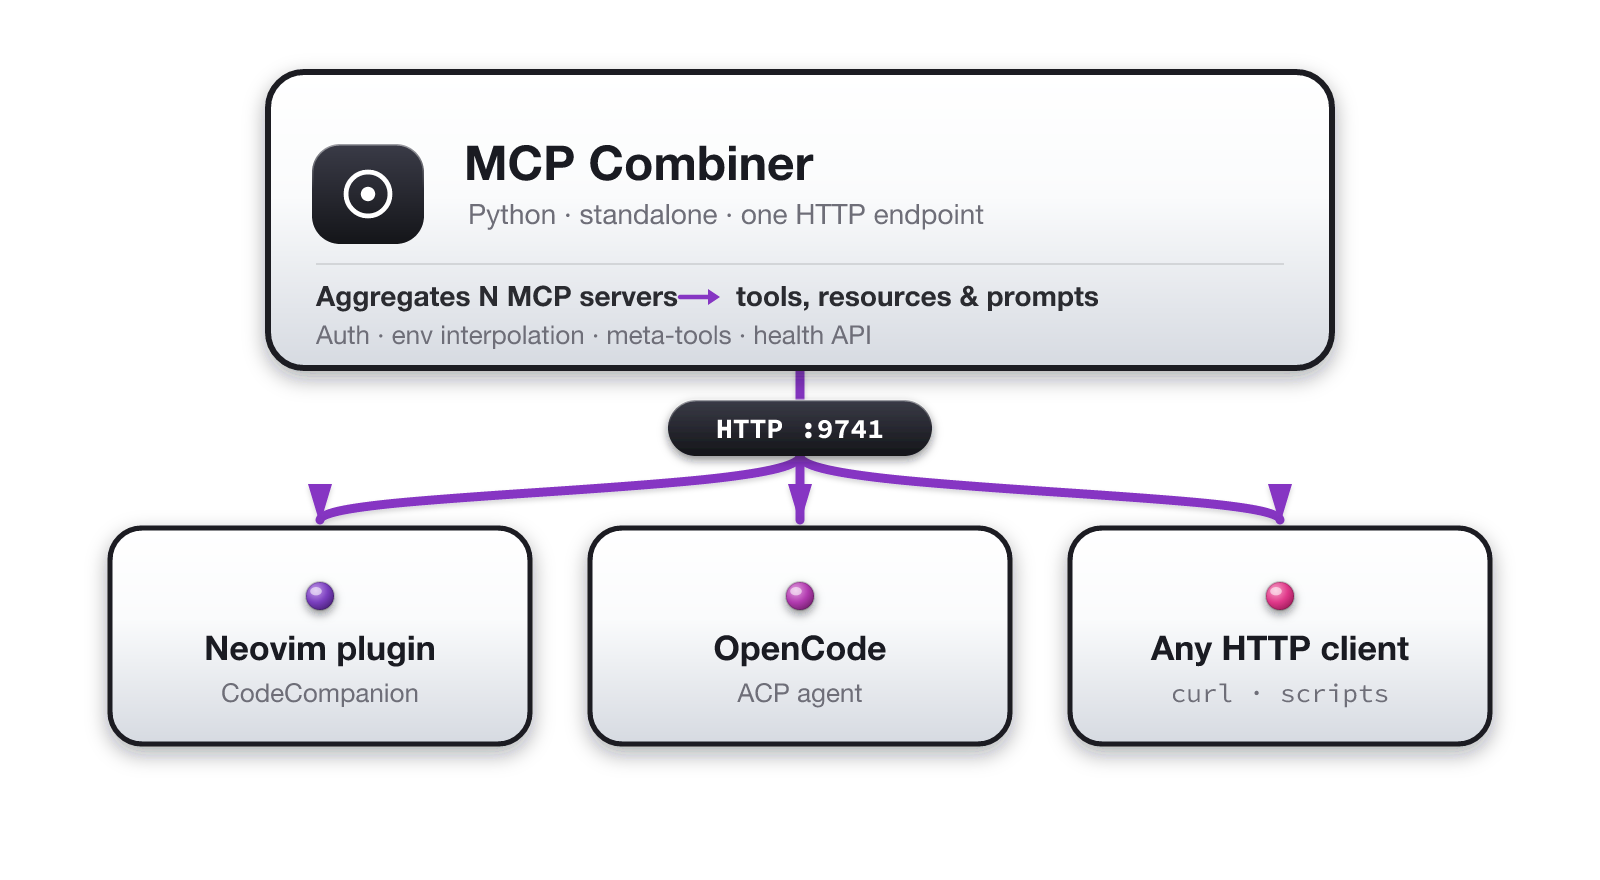
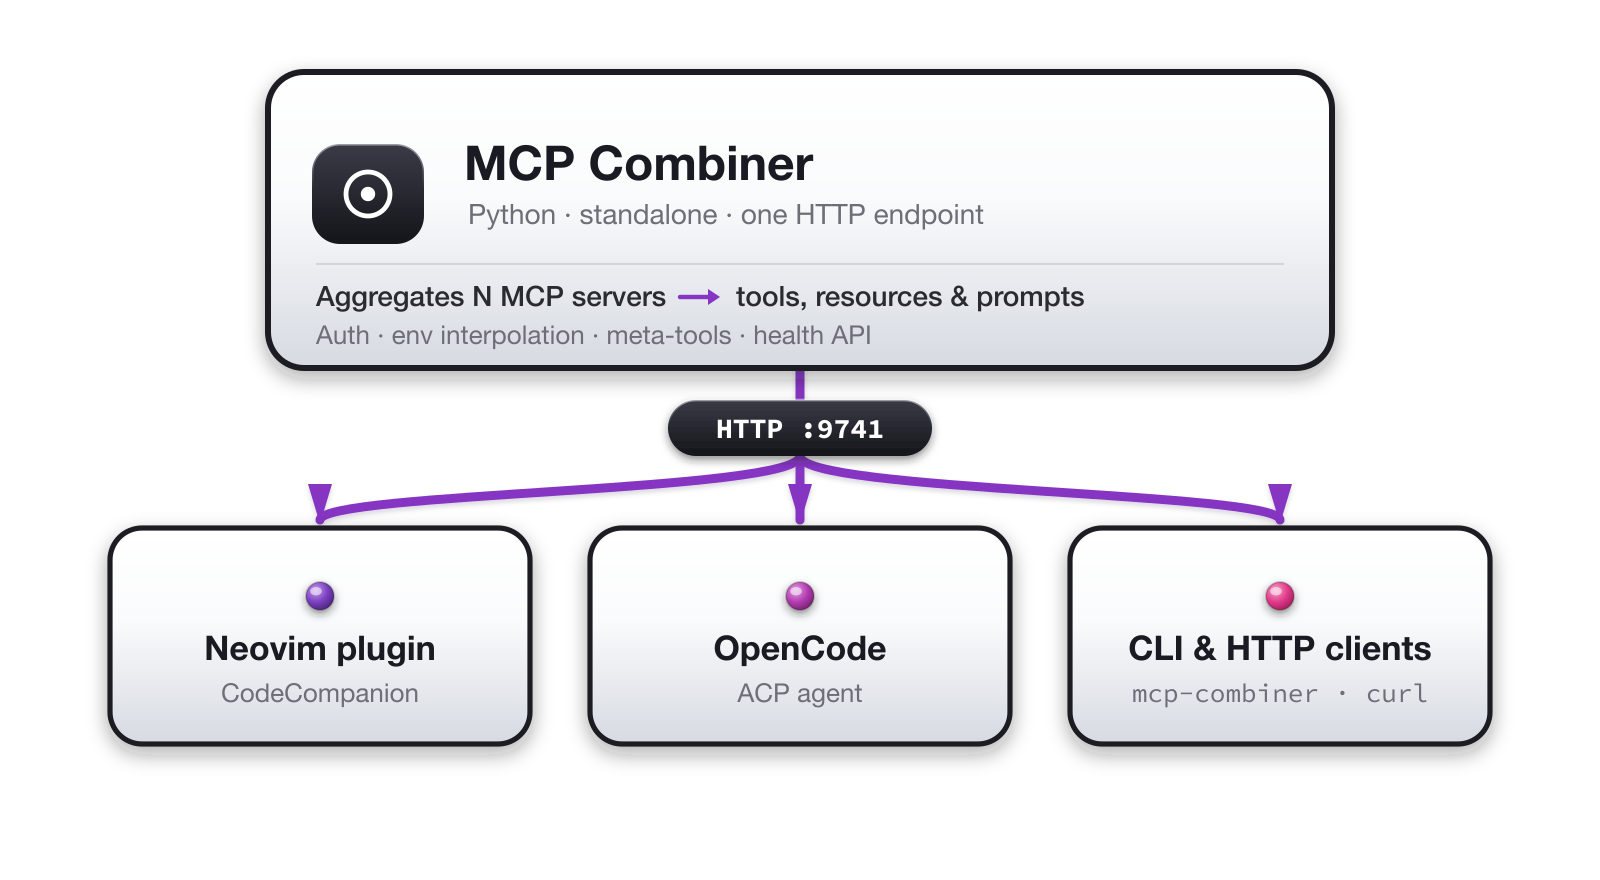
docs: design.md reflects the decomposed architecture; hero diagram gains the CLI
design.md: corrected stale claims (stateful streamable HTTP — not
stateless_http=True; the Lua client DOES run an SSE notification stream with
polling as fallback; the ACP injection patches transform_to_acp +
interactions.cli.create, not Connection:_establish_session), added a
Combiner Internal Architecture section with a mermaid module DAG showing
the management plane and runtime state ownership, the CLI/--mcp entry
point, self-healing summary, and the mock-server test harness; File
Structure updated to the real tree; Known Limitations now lists Q1/Q1b
and the two deferred Lua refactors instead of long-implemented features
(approval, native server).

architecture.svg/png: third client card is now 'CLI & HTTP clients'
(mcp-combiner · curl); README alt text updated.

Changed region(s): [[0.6875, 0.7057, 0.9062, 0.7977], [0.4688, 0.3068, 0.6875, 0.3682], [0.1875, 0.3068, 0.4375, 0.3682]]

diff --git a/docs/design.md b/docs/design.md
@@ -14,9 +14,13 @@ We chose a Python [FastMCP](https://github.com/jlowin/fastmcp) combiner over mai
 Node.js hub, because:
 
 - FastMCP has a stable, maintained Python SDK
-- `stateless_http=True` mode avoids session corruption issues (FastMCP #823, #945)
 - uv makes the venv trivially reproducible
 - Python is easier to extend than the abandoned mcp-hub
+
+(The combiner originally ran `stateless_http=True` to dodge session-corruption
+issues — FastMCP #823/#945. It now runs **stateful** streamable HTTP
+(`stateless_http=False`), which is required for the GET/SSE notification
+stream that OpenCode and the Lua client consume.)
 
 The combiner is a FastMCP server that proxies all configured MCP servers via the
 `everything` mount pattern. It exposes them all on a single HTTP endpoint at
@@ -38,15 +42,15 @@ lives for the lifetime of the Neovim instance.
 ## HTTP Client Design
 
 The Lua HTTP client (`combiner/client.lua`) uses `vim.uv.new_tcp()` — one TCP connection
-per request, not persistent. This is because:
+per *request* (`Connection: close`, forcing immediate body delivery), plus **one
+long-lived SSE stream** (`GET /mcp`) for server-push notifications
+(`tools/resources/prompts list_changed`). The SSE stream reconnects with a fixed
+2s backoff and shuts down gracefully (FIN, not RST) so it never corrupts FastMCP's
+session state; a 30s polling timer remains as a fallback refresh path.
 
-- FastMCP's HTTP endpoint keeps connections alive for SSE notifications by default
-- `Connection: close` on every request forces immediate body delivery
-- `stateless_http=True` on the server eliminates session state corruption
-
-No SSE notification stream is used. Instead, capabilities are polled via `vim.uv.new_timer()`
-at a configurable interval (default 30s). This avoids an SSE disconnect bug that corrupts
-the FastMCP proxy state.
+Sessions are stateful: every request carries `Mcp-Session-Id`, and per-chat
+clients additionally carry the chat token (`X-MCP-Combiner-Session` header
+and/or `/mcp/<token>` URL).
 
 ## Tool Naming
 
@@ -110,19 +114,21 @@ If the agent does not support HTTP, we fall back to stdio via `mcp-remote`:
 
 ### Monkey-patch approach
 
-CC's `transform_to_acp()` function only handles stdio servers and requires them to be
-in `default_servers`. We cannot use it.
+CC's stock MCP plumbing can't inject a per-session HTTP server entry, so
+`cc/init.lua` patches two seams at setup:
 
-Instead, `_inject_combiner_config()` monkey-patches `Connection:_establish_session` on the
-CC ACP `Connection` class. The patch:
+1. **ACP**: `codecompanion.mcp.transform_to_acp` is wrapped to append the
+   combiner `mcpServers` entry (built by `build_combiner_entry`) into the ACP
+   session, carrying the chat token in the header and/or `/mcp/<token>` URL
+   (`combiner.token_in_url` tri-state; the stdio `mcp-remote` fallback always
+   uses the URL since it forwards neither env nor headers).
+2. **CLI agents**: `codecompanion.interactions.cli.create` is wrapped so the
+   spawned agent runs under `env MCP_COMPANION_COMBINER_URL=http://…/mcp/<token>`,
+   scoped to that spawn.
 
-1. Runs once (idempotent via `Connection._mcp_companion_patched` flag)
-2. Per session: wraps `send_rpc_request` on the instance
-3. Intercepts `session/new` and `session/load` to inject the combiner entry
-4. Restores `send_rpc_request` after `_establish_session` returns
-
-This is safe because `_agent_info` (containing `mcpCapabilities`) is populated from the
-`initialize` response before `_establish_session` is called.
+Each chat's token is minted in the corresponding `*Pre` autocmd; per-chat
+`allowed_servers` filters are POSTed to `/sessions/token/<token>/filter`
+(`combiner/sessions.lua`).
 
 ## Data Flow
 
@@ -177,47 +183,165 @@ it is allowed to use.
 For full implementation details see
 [`docs/designs/per-chat-session-filtering.md`](designs/per-chat-session-filtering.md).
 
+## Combiner Internal Architecture
+
+The Python combiner was decomposed (2026-07) from a single `server.py` god
+module into focused modules with a one-way dependency DAG. Management (the
+`combiner__*` meta-tools, the session/health REST API, and the `mcp-combiner`
+control CLI) sits in a distinct band above the domain modules and below only
+the wiring:
+
+```mermaid
+graph TD
+    subgraph entry ["entry points"]
+        MAIN["__main__ (parse/dispatch)"]
+        CTL["ctl (control CLI — pure client)"]
+    end
+    subgraph wiring
+        ASGI["asgi (ServeOptions, token middleware, app factory)"]
+        SRV["server (create_combiner + lifespan)"]
+    end
+    subgraph management ["management plane"]
+        META["meta_tools (combiner__* tools)"]
+        ROUTES["routes (/health, /sessions*)"]
+    end
+    subgraph request ["request path"]
+        MW["middleware (ToolProcessingMiddleware)"]
+    end
+    subgraph domain
+        TC["toolcache (cache, hysteresis, prime)"]
+        PF["proxyfactory (proxies, isolate, OAuth primer)"]
+        ST["status (one status snapshot)"]
+        SF["schemafix (sanitize + named fixes)"]
+    end
+    subgraph foundation
+        CONN["connections (persistent upstreams, self-healing)"]
+        RT["runtime (CombinerRuntime: ALL mutable state)"]
+        CFG["config"]
+        AUTH["auth (OAuth 2.1)"]
+        MNT["mounts (provider registry)"]
+        SS["sharedserver (refcounted processes)"]
+        NV["nvim_proxy / nvim_channel (editor back-channel)"]
+    end
+
+    MAIN --> CTL
+    MAIN --> ASGI --> SRV
+    SRV --> META & ROUTES & MW & PF
+    META --> TC & PF & ST & MNT & SS
+    ROUTES --> ST & TC
+    MW --> TC & SF & NV
+    TC --> SF
+    PF --> CONN & AUTH
+    ST --> CONN
+    TC --> RT
+    MW --> RT
+    META --> RT
+    ROUTES --> RT
+    ASGI --> RT
+    CONN --> AUTH & CFG
+```
+
+Key properties:
+
+- **`runtime.CombinerRuntime`** owns all mutable state (`SessionRegistry`,
+  `ToolCacheState`, late-bound config/manager refs, the boot id). All *writes*
+  go through its methods; the old `server.py` globals survive only as
+  read-compat aliases for tests.
+- **Entry point**: `mcp-combiner <command>` is a control CLI (`ctl.py`,
+  httpx REST + short-lived fastmcp sessions); `mcp-combiner --mcp --config …`
+  serves. Bare `--config` still serves with a deprecation warning.
+- **Self-healing**: `connections.ConnectionManager` health-checks every 30s,
+  reconnects with capped backoff (15s max for local upstreams), and after 3
+  consecutive failed re-opens hard-restarts a sharedserver-backed process
+  (nothing else respawns it). Every HTTP server — including `isolate: true`
+  ones — gets a persistent "primer" connection that owns OAuth, priming, and
+  escalation.
+- **Tool publication** (`toolcache`) is deliberately subtle and treated as
+  load-bearing: silent `clear_tool_cache` vs broadcasting
+  `invalidate_tool_cache`; per-server last-known-good slices re-served within
+  a stale grace window (anti-flapping hysteresis); a single started→ready
+  prime path shared by stdio/sharedserver/HTTP. Do not "simplify" this area
+  without reading the docstrings.
+
+### Test harness
+
+`mcp_combiner.mockserver` is an instrumentable mock MCP server (stdio or
+HTTP) used by the e2e suites in `combiner/tests/`: configurable tools with
+**verbatim** (including deliberately malformed) schemas, scripted response
+queues, latency/error injection, `mock__crash`, per-session call tracking,
+and a persistent boot counter — enough to prove restart, self-healing,
+session-isolation and combiner-reconnect behavior against real processes.
+`scripts/test.sh {fast|e2e|all}` and `scripts/test-lua.sh` run the tiers.
+
 ## File Structure
 
 ```
 mcp-companion.nvim/
 ├── combiner/                     Python FastMCP combiner
 │   ├── pyproject.toml
-│   └── mcp_combiner/
-│       ├── server.py           FastMCP proxy server + filter REST API
-│       ├── config.py           MCP server config loader (VS Code format)
-│       ├── meta_tools.py       Combiner meta-tools (status, enable/disable servers)
-│       └── __main__.py         CLI entry point + TokenRewriteMiddleware
+│   ├── mcp_combiner/
+│   │   ├── __main__.py         CLI parse/dispatch: control commands vs --mcp serve
+│   │   ├── ctl.py              Control CLI ops (status/enable/restart/session/…)
+│   │   ├── asgi.py             ServeOptions + TokenRewriteMiddleware + app factory
+│   │   ├── server.py           create_combiner wiring + lifespan
+│   │   ├── runtime.py          CombinerRuntime — ALL mutable state, behind methods
+│   │   ├── middleware.py       ToolProcessingMiddleware (list/call pipeline)
+│   │   ├── toolcache.py        tools/list cache, hysteresis, priming, notifications
+│   │   ├── schemafix.py        schema sanitization + named fixes (--schema-fix)
+│   │   ├── proxyfactory.py     upstream proxy construction incl. isolate/OAuth primer
+│   │   ├── routes.py           /health + /sessions* REST API
+│   │   ├── status.py           the one status snapshot (health + combiner__status)
+│   │   ├── meta_tools.py       combiner__* management tools
+│   │   ├── connections.py      persistent upstream connections + self-healing
+│   │   ├── config.py           MCP server config loader (VS Code format)
+│   │   ├── auth.py             OAuth 2.1 + encrypted token store
+│   │   ├── mounts.py           explicit provider registry (restart-bug fix)
+│   │   ├── sharedserver.py     refcounted external process manager
+│   │   ├── nvim_proxy.py       virtual neovim_* server + /neovim REST
+│   │   ├── nvim_channel.py     pynvim back-channel into live editors
+│   │   ├── fastvalidate.py     cached jsonschema validators (SDK patch)
+│   │   ├── schema.py           shared object-schema normalization
+│   │   └── mockserver.py       instrumentable mock MCP server (tests/debugging)
+│   └── tests/                  pytest suite (unit + e2e process tiers)
 ├── lua/mcp_companion/
-│   ├── init.lua                Public API + setup()
+│   ├── init.lua                Public API + setup() + user commands
+│   ├── ops.lua                 Operations facade (commands/UI/CC all call this)
 │   ├── config.lua              Config schema + defaults + auto-detection
 │   ├── state.lua               Shared state + event bus
+│   ├── project.lua             .mcp-companion.json discovery/apply/save
 │   ├── log.lua                 Logger
+│   ├── http.lua                curl-based REST client
+│   ├── schema.lua              Tool schema normalization (issue #7)
+│   ├── install.lua             uv-based combiner install
 │   ├── combiner/
 │   │   ├── init.lua            Combiner process lifecycle + per-chat client factory
-│   │   └── client.lua          HTTP client (vim.uv TCP) with lite mode
+│   │   ├── client.lua          MCP client (vim.uv TCP + SSE stream) with lite mode
+│   │   └── sessions.lua        Token-filter REST client (/sessions/token/*)
 │   ├── cc/
-│   │   ├── init.lua            CC extension entry point + ACP injection + per-chat filtering
-│   │   ├── tools.lua           MCP tools → CC tools registration + per-chat call routing
+│   │   ├── init.lua            CC extension entry + ACP/CLI injection + tokens
+│   │   ├── tools.lua           MCP tools → CC tools registration
 │   │   ├── session_commands.lua  /mcp-session slash command
 │   │   ├── editor_context.lua  MCP resources → CC #editor_context entries
 │   │   ├── slash_commands.lua  MCP prompts → CC / slash commands
-│   │   └── approval.lua        [STUB] Tool approval flow
-│   ├── native/
-│   │   └── init.lua            [STUB] Pure-Lua MCP server registration
+│   │   └── approval.lua        Tiered tool approval (globs + tier aliases)
+│   ├── native/                 In-process Lua MCP server (neovim_* tools)
+│   │   ├── init.lua            Registry + dispatch + frozen manifest
+│   │   ├── channel.lua         Socket + /neovim registration + token binds
+│   │   └── neovim/             buffers/files/diagnostics/resources tools
 │   └── ui/
-│       └── init.lua            Status floating window
-└── tests/
-    └── (pytest suite for combiner Python code)
+│       └── init.lua            :MCPStatus floating window
+├── scripts/                    test.sh (fast/e2e/all), test-lua.sh
+└── tests/                      Lua tests (self-contained + integration)
 ```
 
-## Known Limitations
+## Known Limitations / Open Issues
 
-- No tool approval flow (all tools auto-execute)
-- Native (pure-Lua) MCP server registration is not implemented — design for a native
-  Neovim control server (msgpack-RPC back-channel for external agents) in
-  [`docs/designs/native-neovim-server.md`](designs/native-neovim-server.md)
-- `transform_to_acp` (upstream CC) has no HTTP server branch and no nil guard on
-  `cfg.cmd`; our patch adds HTTP support but the upstream should be fixed
-- Pending token filters are held in memory — if the combiner restarts between
-  `ACPSessionPre` and the ACP agent's first connect, the filter is lost
+- **QUESTIONS.md Q1/Q1b (open)**: per-chat filters set through the token REST
+  route are recorded but not applied — the token→session map carries the wire
+  `mcp-session-id` while filtering keys on fastmcp's `Context.session_id`.
+  The meta-tool path works. Pinned by `xfail(strict=True)` e2e tests.
+- Pending token filters are held in memory — lost if the combiner restarts
+  between `ACPSessionPre` and the agent's first connect.
+- `transform_to_acp` (upstream CC) still needs the HTTP branch upstreamed.
+- Deferred refactors: `cc/init.lua` split (acp/cli_agents/tokens) and
+  decoupling `combiner/client.lua` from the state event bus.

diff --git a/README.md b/README.md
@@ -27,7 +27,7 @@ UI.
 ## Overview
 
 <p align="center">
-  <img src="docs/assets/architecture.svg" alt="MCP Combiner aggregates N MCP servers behind one HTTP endpoint (:9741), serving the Neovim plugin (CodeCompanion), OpenCode (ACP agent), and any HTTP client (curl, scripts)" width="760">
+  <img src="docs/assets/architecture.svg" alt="MCP Combiner aggregates N MCP servers behind one HTTP endpoint (:9741), serving the Neovim plugin (CodeCompanion), OpenCode (ACP agent), and the mcp-combiner CLI or any HTTP client" width="760">
 </p>
 
 ---
